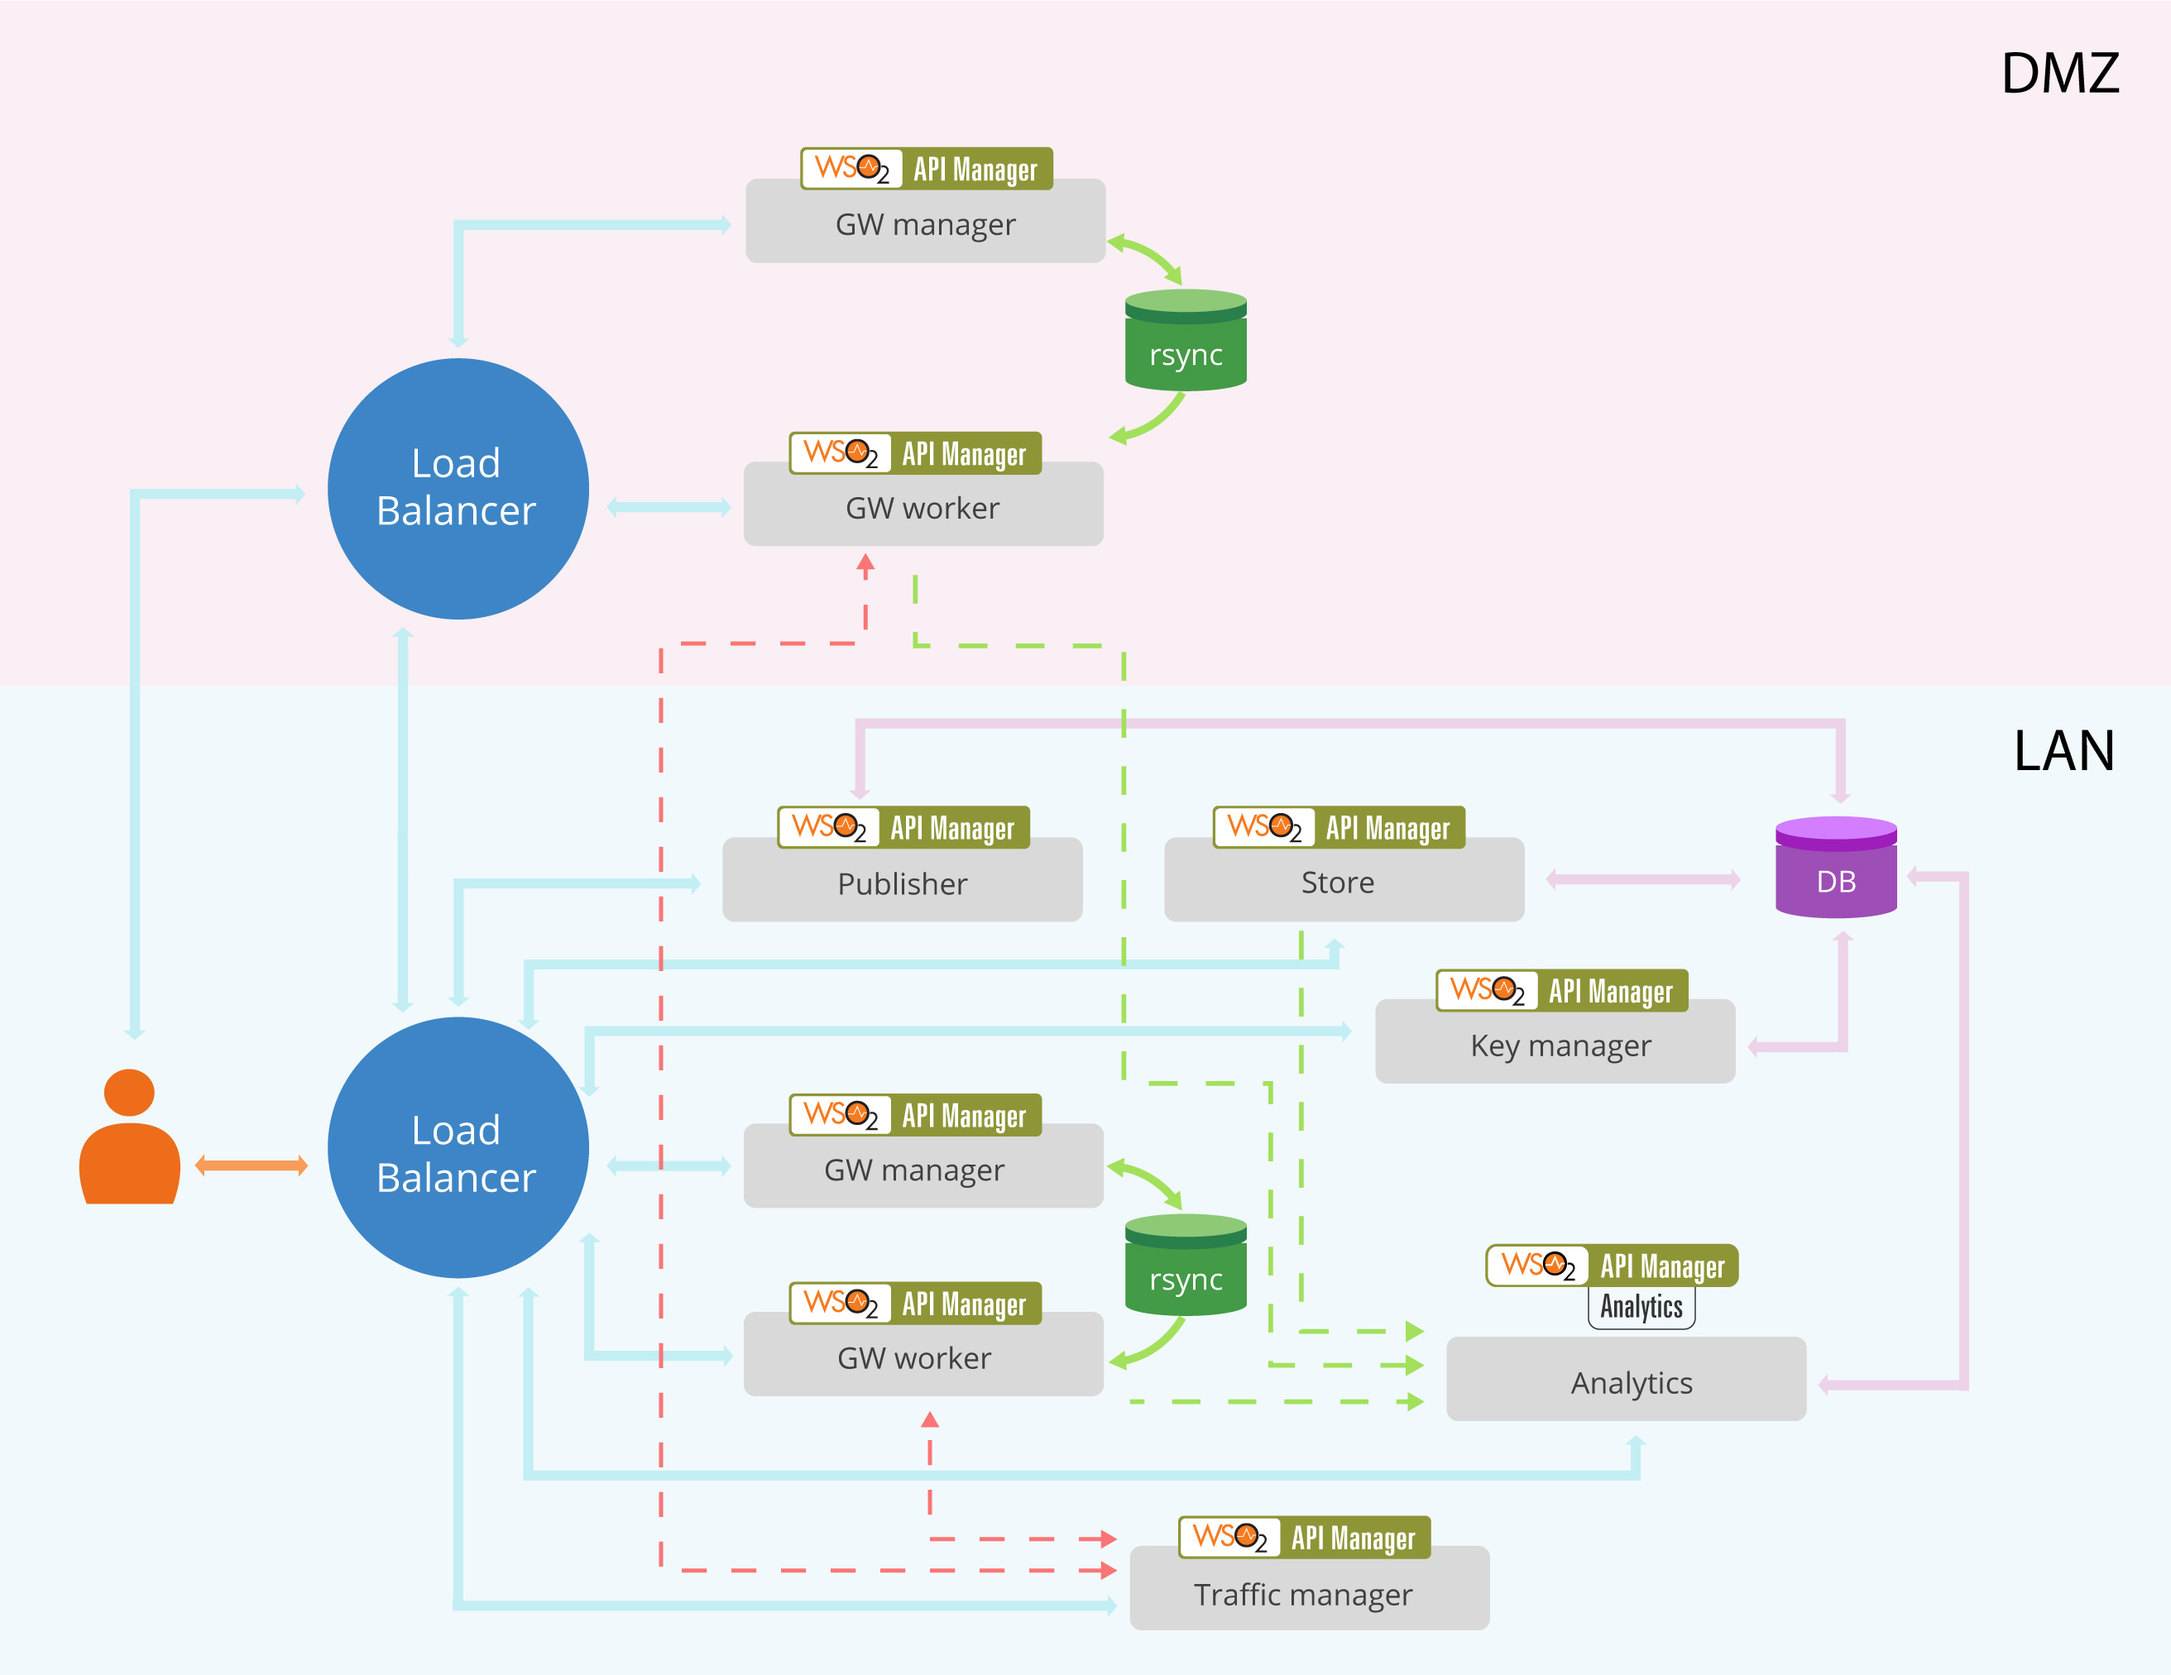
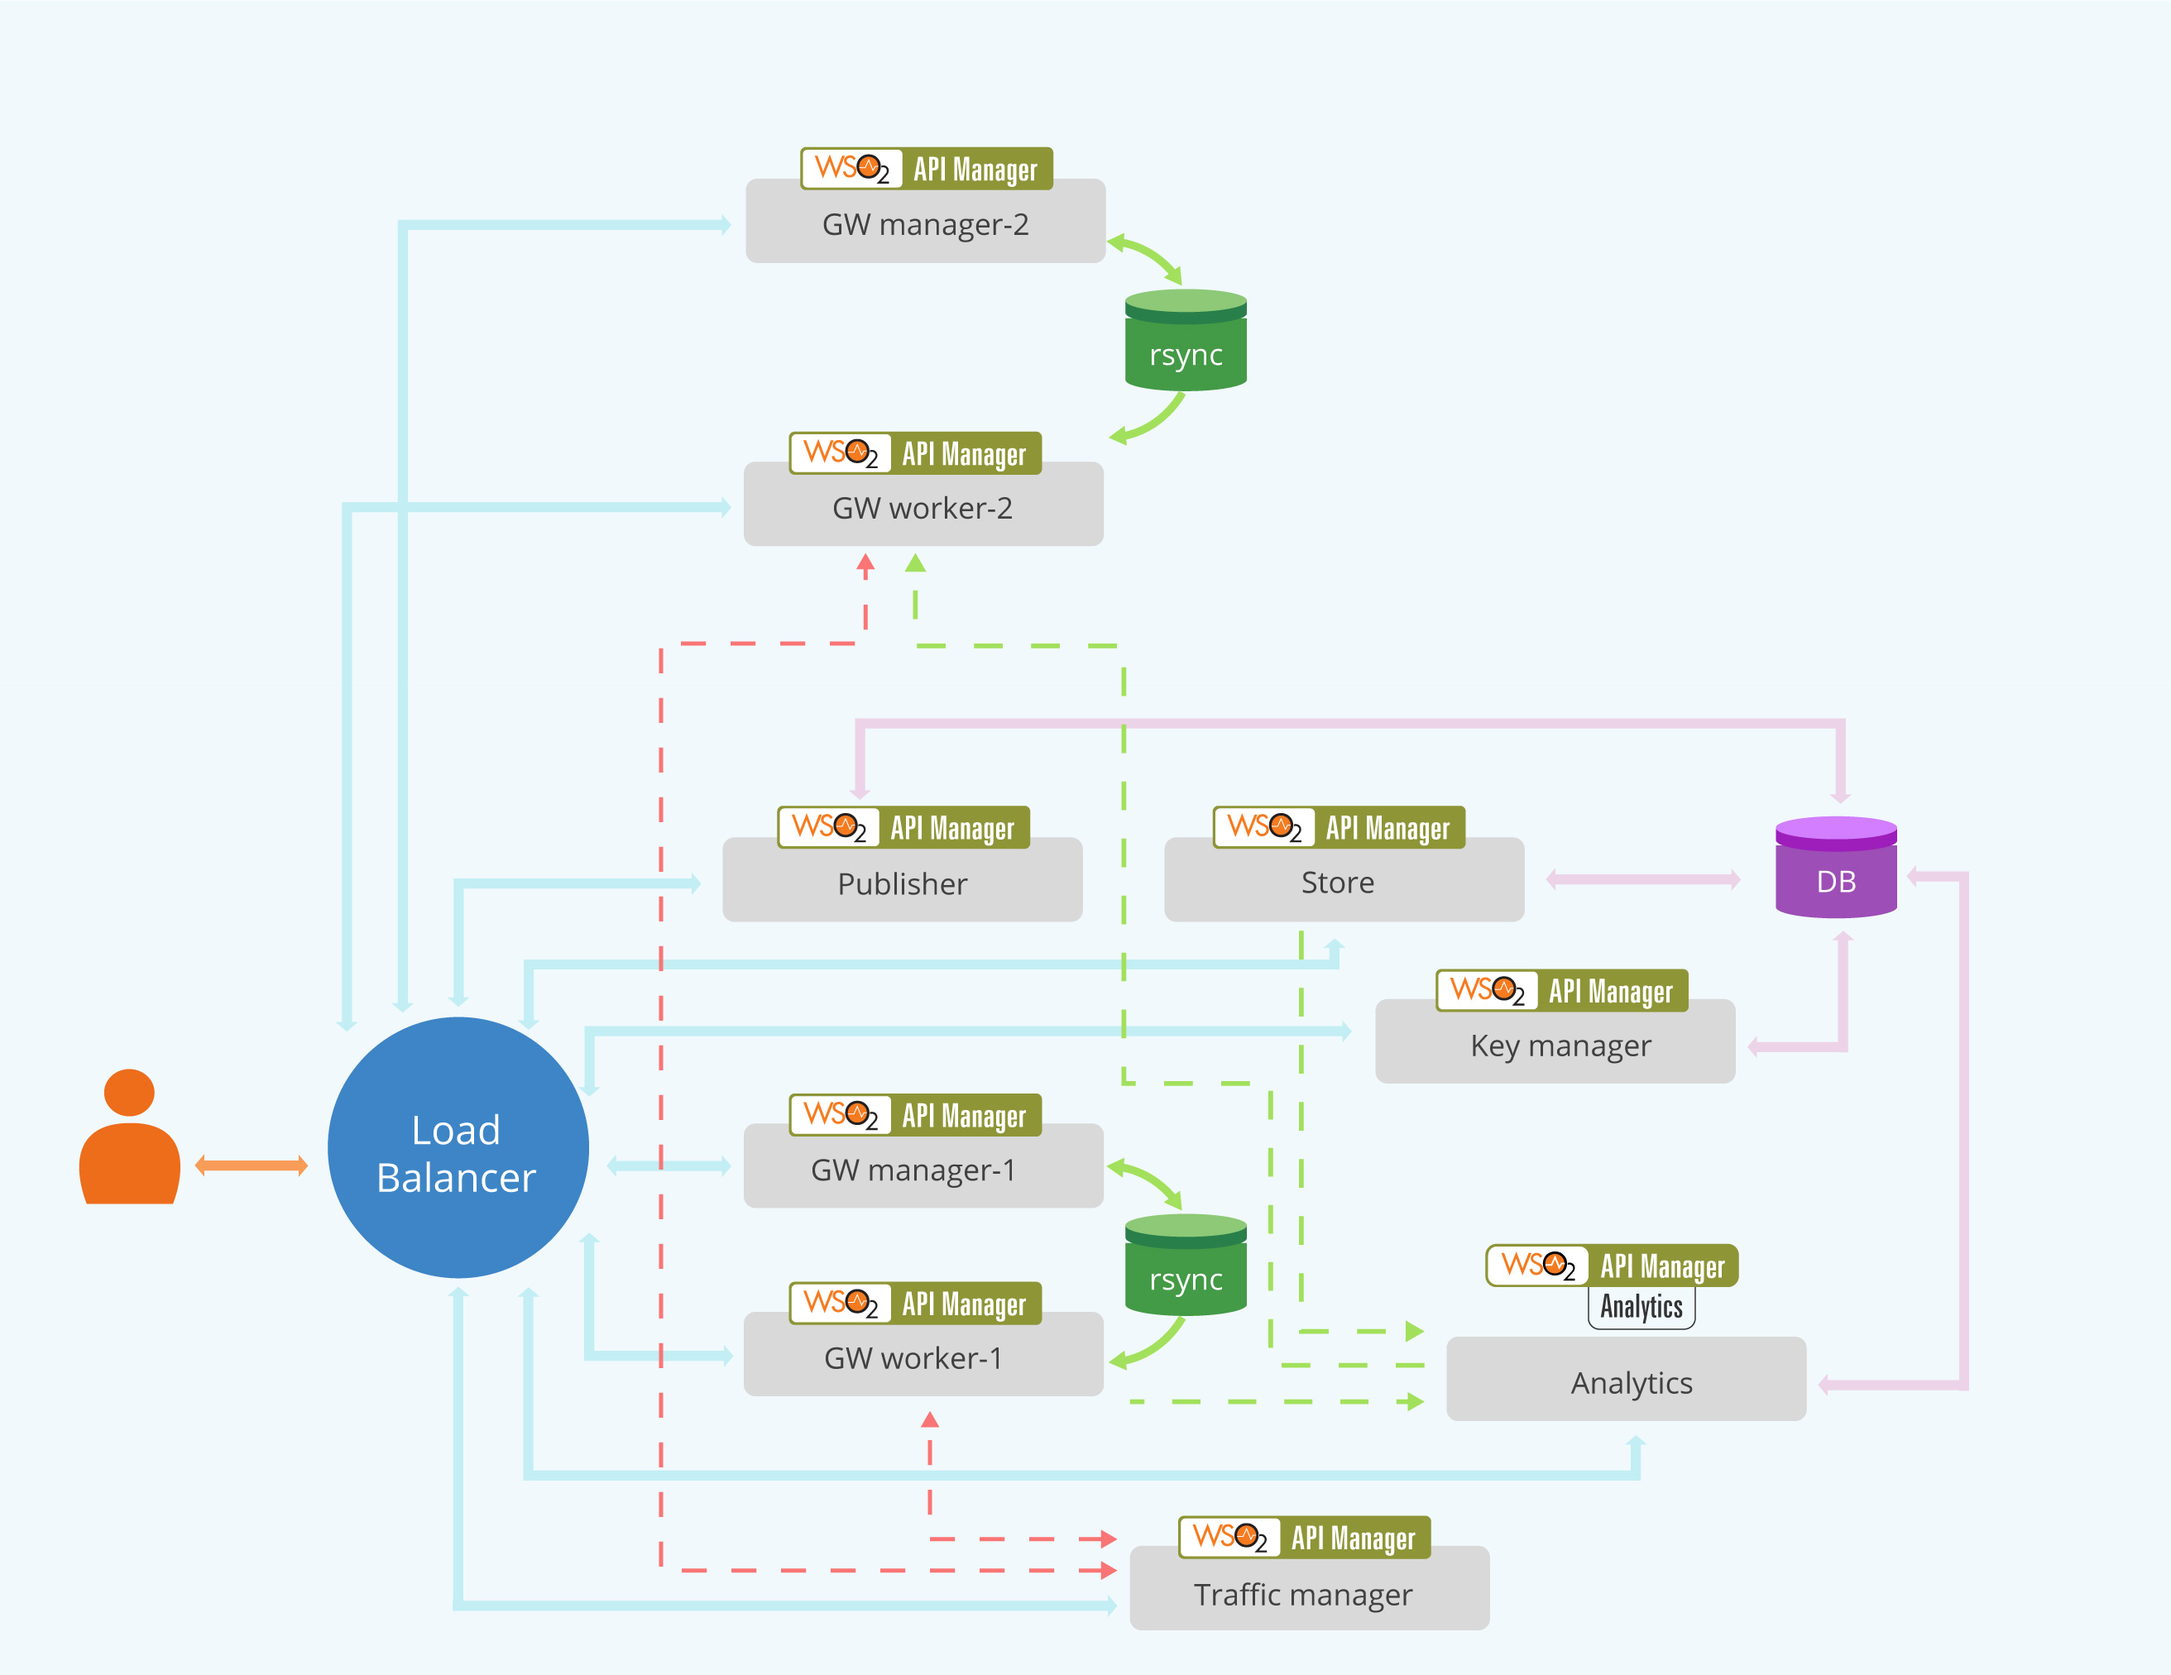
Change apim-runtime pattern 4 design diagram (removed LAN & DMZ labling of GW clusters) and made related README changes

diff --git a/wso2am_runtime/hieradata/dev/wso2/wso2am_runtime/pattern-4/README.md b/wso2am_runtime/hieradata/dev/wso2/wso2am_runtime/pattern-4/README.md
@@ -2,10 +2,12 @@
 
 ![pattern-design](../../../../../patterns/design/am-2.1.0-pattern-4.jpg)
 
-This pattern consist of a fully distributed APIM setup (including a Gateway cluster of one manager and one worker)
-with an additional Gateway Cluster (one manager and one worker) in a DMZ, with a single
+This pattern consist of a fully distributed APIM setup including two Gateway clusters each with one manager and one worker, with a single
 wso2am-analytics server instance. The eight hiera data .yaml files (in spite of  common.yaml) here are for the 8 APIM nodes.
- The databases used in this pattern are external mysql databases.
+ The databases used in this pattern are external mysql databases. And please note that the hiera data files of gateway nodes are named with 
+ the suffixes 'lan' or 'dmz' which refers to the environment they could be existing in. But please consider that the two gateway clusters in 
+ this pattern are there, just to convey that they are in two (gateway)environments and there is no any particularity to a LAN or DMZ. LAN & DMZ 
+ are mentioned as examples for environments.
 
 Please follow the basic instructions in this [README](../../../../../README.md) before following this guide.
 

diff --git a/wso2am_runtime/hieradata/dev/wso2/wso2am_runtime/pattern-5/README.md b/wso2am_runtime/hieradata/dev/wso2/wso2am_runtime/pattern-5/README.md
@@ -46,7 +46,7 @@ used in each instance.
    APIM Node                   | Hieradata file            | Hostname
    -------------               |-----------------------    | ------------------
    Publisher                   | api-publisher.yaml        | pub.dev.wso2.org
-   Store                       | api-publisher.yaml        | store.dev.wso2.org
+   Store                       | api-store.yaml            | store.dev.wso2.org
    Gateway Manager             | gateway-manager.yaml      | mgt-gw.dev.wso2.org
    Gateway Worker + Key Manager| gw-plus-km.yaml           | am.dev.wso2.org
    Traffic Manager             | traffic-manager.yaml      | tm.dev.wso2.org

diff --git a/wso2am_runtime/hieradata/dev/wso2/wso2am_runtime/pattern-3/README.md b/wso2am_runtime/hieradata/dev/wso2/wso2am_runtime/pattern-3/README.md
@@ -45,7 +45,7 @@ Following table contains the APIM node instances and their respective hiera data
    APIM Node        | Hieradata file        | Hostname
   ------------------|---------------------- |----------------------
    Publisher        | api-publisher.yaml    | pub.dev.wso2.org
-   Store            | api-publisher.yaml    | store.dev.wso2.org
+   Store            | api-store.yaml        | store.dev.wso2.org
    Gateway Manager  | gateway-manager.yaml  | mgt-gw.dev.wso2.org
    Gateway Worker   | gateway-worker.yaml   | gw.dev.wso2.org
    Key Manager      | api-key-manager.yaml  | km.dev.wso2.org
